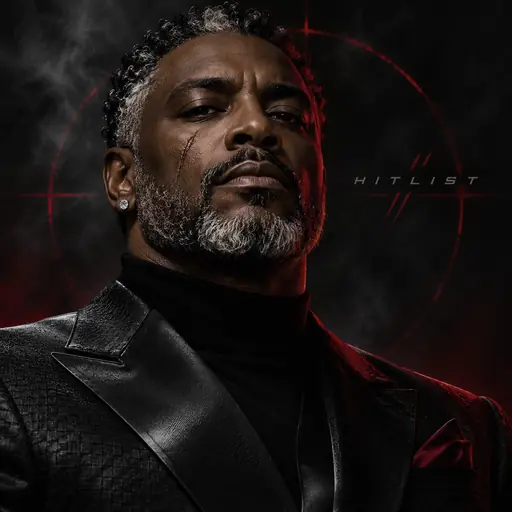
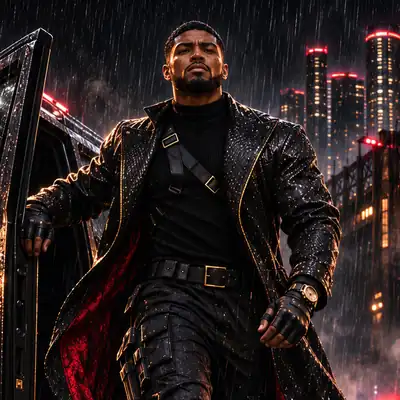
Refresh Vanguard portraits and archive original character concepts
* Refresh Vanguard portraits with younger cast and preserve legacy art in Founders archive

* Document younger Vanguard art direction and legacy archive

diff --git a/docs/AGENCY_VISUAL_BIBLE.md b/docs/AGENCY_VISUAL_BIBLE.md
@@ -1,0 +1,17 @@
+# Agency Character Visual Standard — Vanguard (Nov 2026)
+
+## Younger frontline operatives
+
+- BLACKOUT: Black male field operative in early 30s, athletic, cropped natural hair, precise short beard, luxury black tactical streetwear with gold highlights. Calm authority; no gray hair.
+- VESPER: Black woman in late 20s, deliberately silver-white pixie hairstyle (style, not age), hoop earrings, sleek glossy black tactical styling.
+- SABLE: Young woman in late 20s with medium tan complexion, expressive dark eyes, black headscarf with ornate gold accents and black tactical coat with crimson interior.
+
+Palette: midnight black, carbon, crimson and brass gold. Wet Detroit-inspired streets, glass penthouses, neon industrial environments. Characters should look modern and confident.
+
+### Legacy originals
+
+The older visual versions of the three leads are preserved in assets/operatives/founders-archive/ as historical concept artwork. Their future fictional names and storyline affiliations remain unassigned; do not assert they are the same people at different ages.
+
+### Paths
+
+The default current portraits retain canonical asset paths in assets/operatives/: blackout.webp, vesper.webp, sable.webp. The existing roster, recruitment cards and stories can reuse them without changing JavaScript.
